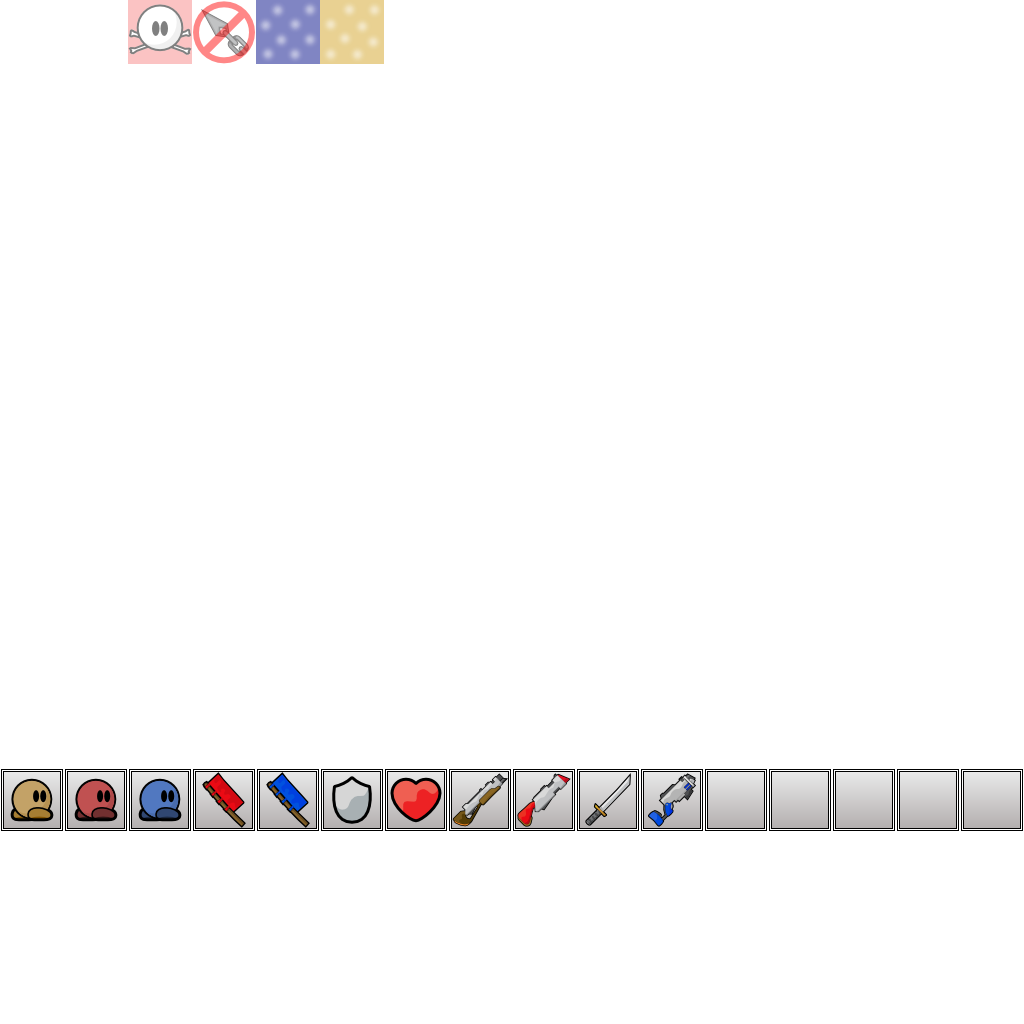
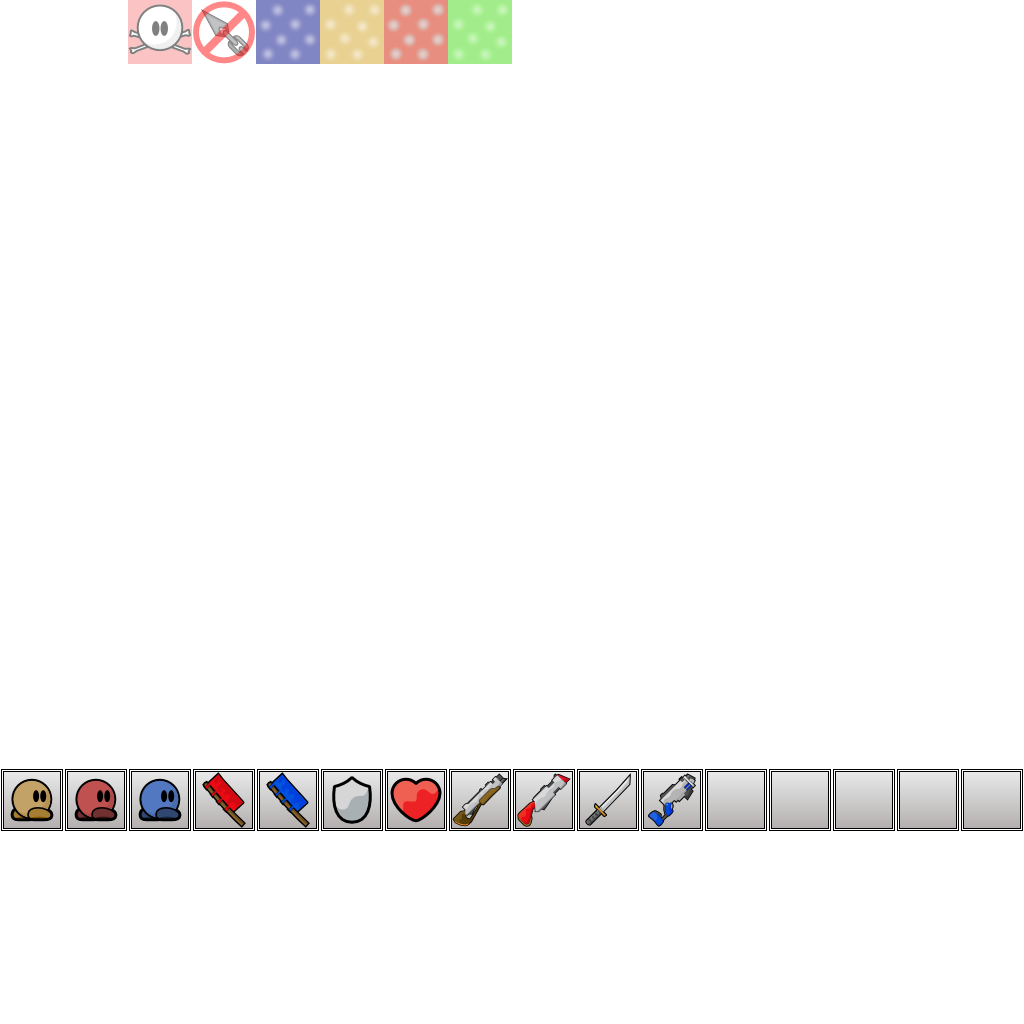
added deep freeze

Changed region(s): [[0.375, 0.0, 0.5, 0.0625]]

diff --git a/src/game/gamecore.cpp b/src/game/gamecore.cpp
@@ -158,7 +158,7 @@ void CCharacterCore::Tick(bool UseInput)
 	}
 
 	// add the speed modification according to players wanted direction
-	if(m_Direction == 0 || m_FreezeTick > 0)
+	if(m_Direction == 0 || m_FreezeTick != 0)
 		m_Vel.x *= Friction;
 	else if(m_Direction < 0)
 		m_Vel.x = SaturatedAdd(-MaxSpeed, MaxSpeed, m_Vel.x, -Accel);
@@ -408,13 +408,43 @@ void CCharacterCore::Move()
 	int TileFlag = m_pCollision->GetCollisionAt(m_Pos.x, m_Pos.y);
 
 	if(TileFlag&CCollision::COLFLAG_FREEZE)
-	{
-		if(m_FreezeTick == 0)
-			m_TriggeredEvents |= COREEVENTFLAG_FREEZE;
-		m_FreezeTick = SERVER_TICK_SPEED * m_pWorld->m_Tuning.m_FreezeTime;
-	}
+		Freeze();
 	else if(TileFlag&CCollision::COLFLAG_UNFREEZE)
+		Unfreeze();
+
+	if(TileFlag&CCollision::COLFLAG_DEEP_FREEZE)
+		DeepFreeze();
+	else if(TileFlag&CCollision::COLFLAG_DEEP_UNFREEZE)
+		DeepUnfreeze();
+}
+
+void CCharacterCore::Freeze()
+{
+		if(m_FreezeTick >= 0)
+		{
+			if(m_FreezeTick == 0)
+				m_TriggeredEvents |= COREEVENTFLAG_FREEZE;
+			m_FreezeTick = SERVER_TICK_SPEED * m_pWorld->m_Tuning.m_FreezeTime;
+		}
+}
+
+void CCharacterCore::Unfreeze()
+{
+	if(m_FreezeTick > 0)
 		m_FreezeTick = 0;
+}
+
+void CCharacterCore::DeepFreeze()
+{
+	if(m_FreezeTick == 0)
+		m_TriggeredEvents |= COREEVENTFLAG_FREEZE;
+	m_FreezeTick = -1;
+}
+
+void CCharacterCore::DeepUnfreeze()
+{
+	if(m_FreezeTick == -1)
+		m_FreezeTick = SERVER_TICK_SPEED * m_pWorld->m_Tuning.m_FreezeTime;
 }
 
 void CCharacterCore::Write(CNetObj_CharacterCore *pObjCore)

diff --git a/src/game/server/entities/character.cpp b/src/game/server/entities/character.cpp
@@ -271,7 +271,7 @@ void CCharacter::FireWeapon()
 		return;
 
 	// check for freeze
-	if(m_Core.m_FreezeTick > 0)
+	if(m_Core.m_FreezeTick != 0)
 		return;
 
 	// check for ammo
@@ -812,13 +812,24 @@ bool CCharacter::TakeDamage(vec2 Force, int Dmg, int From, int Weapon)
 
 void CCharacter::Freeze()
 {
-	m_Core.m_FreezeTick = Server()->TickSpeed() * GameServer()->Tuning()->m_FreezeTime;
+	m_Core.Freeze();
 }
 
 void CCharacter::Unfreeze()
 {
-	m_Core.m_FreezeTick = 0;
+	m_Core.Unfreeze();
 }
+
+void CCharacter::DeepFreeze()
+{
+	m_Core.DeepFreeze();
+}
+
+void CCharacter::DeepUnfreeze()
+{
+	m_Core.DeepUnfreeze();
+}
+
 
 void CCharacter::Snap(int SnappingClient)
 {

diff --git a/src/game/collision.cpp b/src/game/collision.cpp
@@ -51,6 +51,12 @@ void CCollision::Init(class CLayers *pLayers)
 		case TILE_UNFREEZE:
 			m_pTiles[i].m_Index = COLFLAG_UNFREEZE;
 			break;
+		case TILE_DEEP_FREEZE:
+			m_pTiles[i].m_Index = COLFLAG_DEEP_FREEZE;
+			break;
+		case TILE_DEEP_UNFREEZE:
+			m_pTiles[i].m_Index = COLFLAG_DEEP_UNFREEZE;
+			break;
 		default:
 			m_pTiles[i].m_Index = 0;
 		}

diff --git a/src/game/gamecore.h b/src/game/gamecore.h
@@ -193,6 +193,11 @@ public:
 	void Tick(bool UseInput);
 	void Move();
 
+	void Freeze();
+	void Unfreeze();
+	void DeepFreeze();
+	void DeepUnfreeze();
+
 	void Read(const CNetObj_CharacterCore *pObjCore);
 	void Write(CNetObj_CharacterCore *pObjCore);
 	void Quantize();

diff --git a/src/game/server/entities/character.h b/src/game/server/entities/character.h
@@ -54,6 +54,8 @@ public:
 
 	void Freeze();
 	void Unfreeze();
+	void DeepFreeze();
+	void DeepUnfreeze();
 
 	bool IsAlive() const { return m_Alive; }
 	class CPlayer *GetPlayer() { return m_pPlayer; }

diff --git a/src/game/collision.h b/src/game/collision.h
@@ -23,6 +23,8 @@ public:
 		COLFLAG_NOHOOK=4,
 		COLFLAG_FREEZE=8,
 		COLFLAG_UNFREEZE=16,
+		COLFLAG_DEEP_FREEZE=32,
+		COLFLAG_DEEP_UNFREEZE=64,
 	};
 
 	CCollision();

diff --git a/src/game/mapitems.h b/src/game/mapitems.h
@@ -48,6 +48,8 @@ enum
 	TILE_NOHOOK,
 	TILE_FREEZE,
 	TILE_UNFREEZE,
+	TILE_DEEP_FREEZE,
+	TILE_DEEP_UNFREEZE,
 
 	TILEFLAG_VFLIP=1,
 	TILEFLAG_HFLIP=2,
